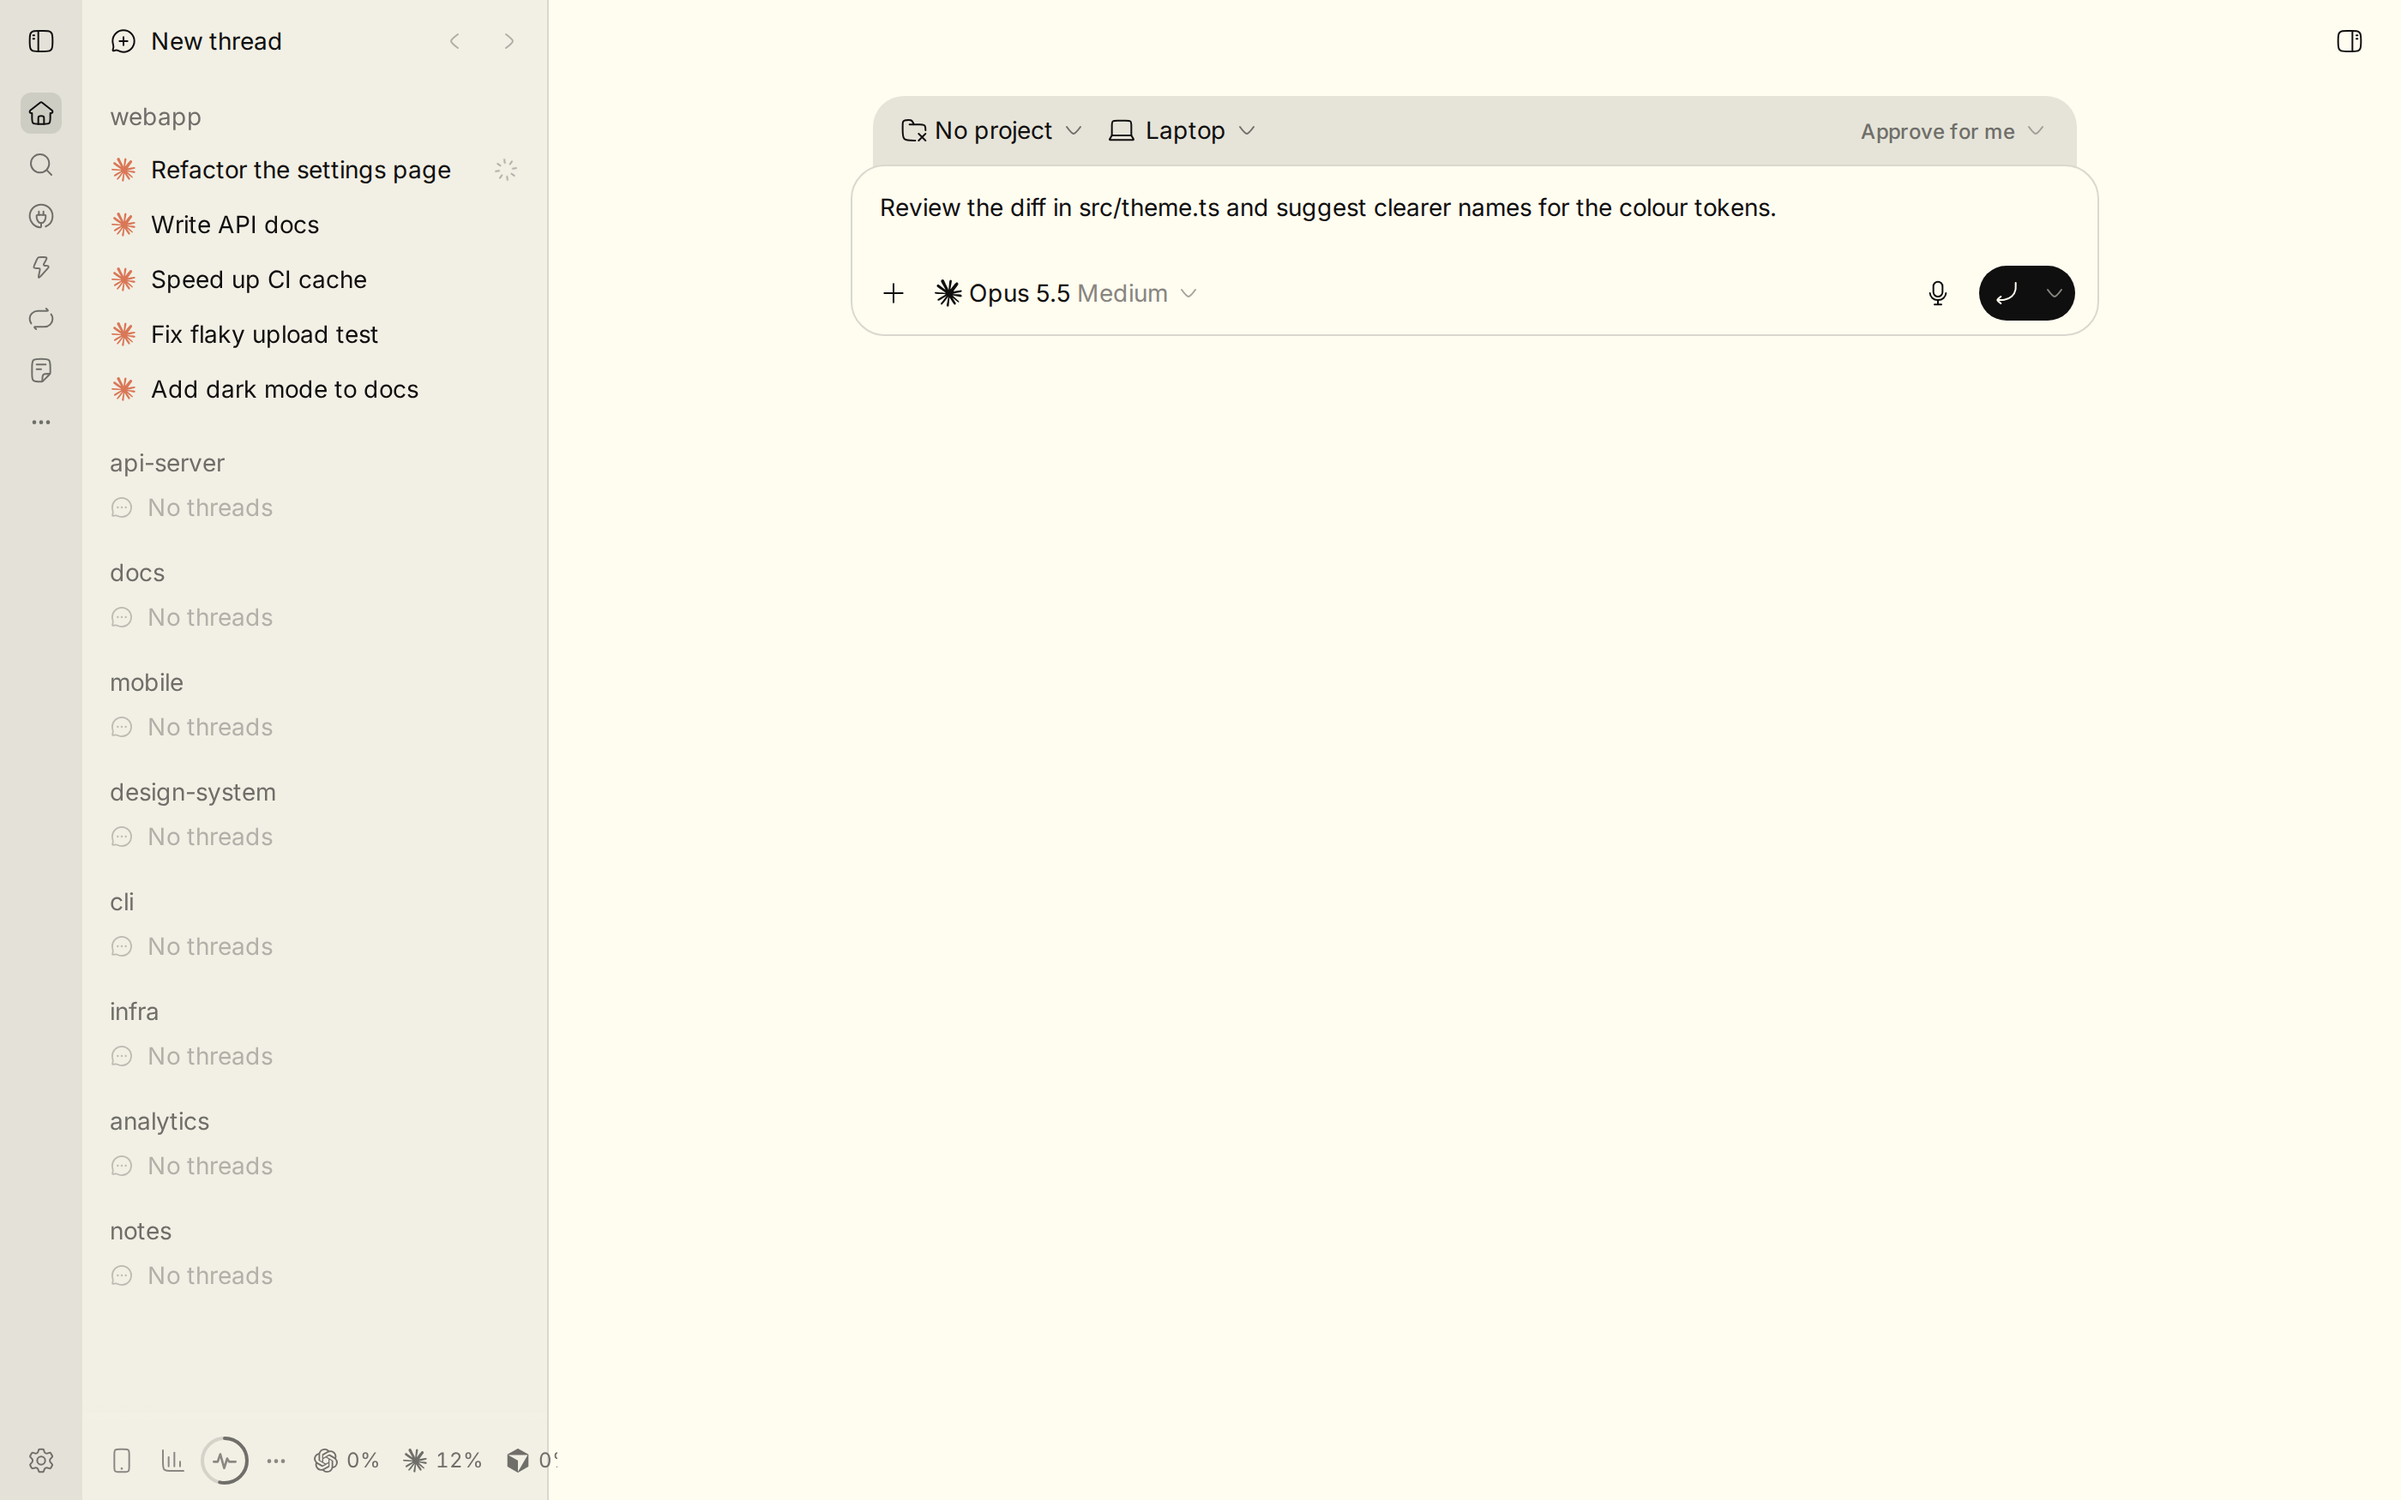
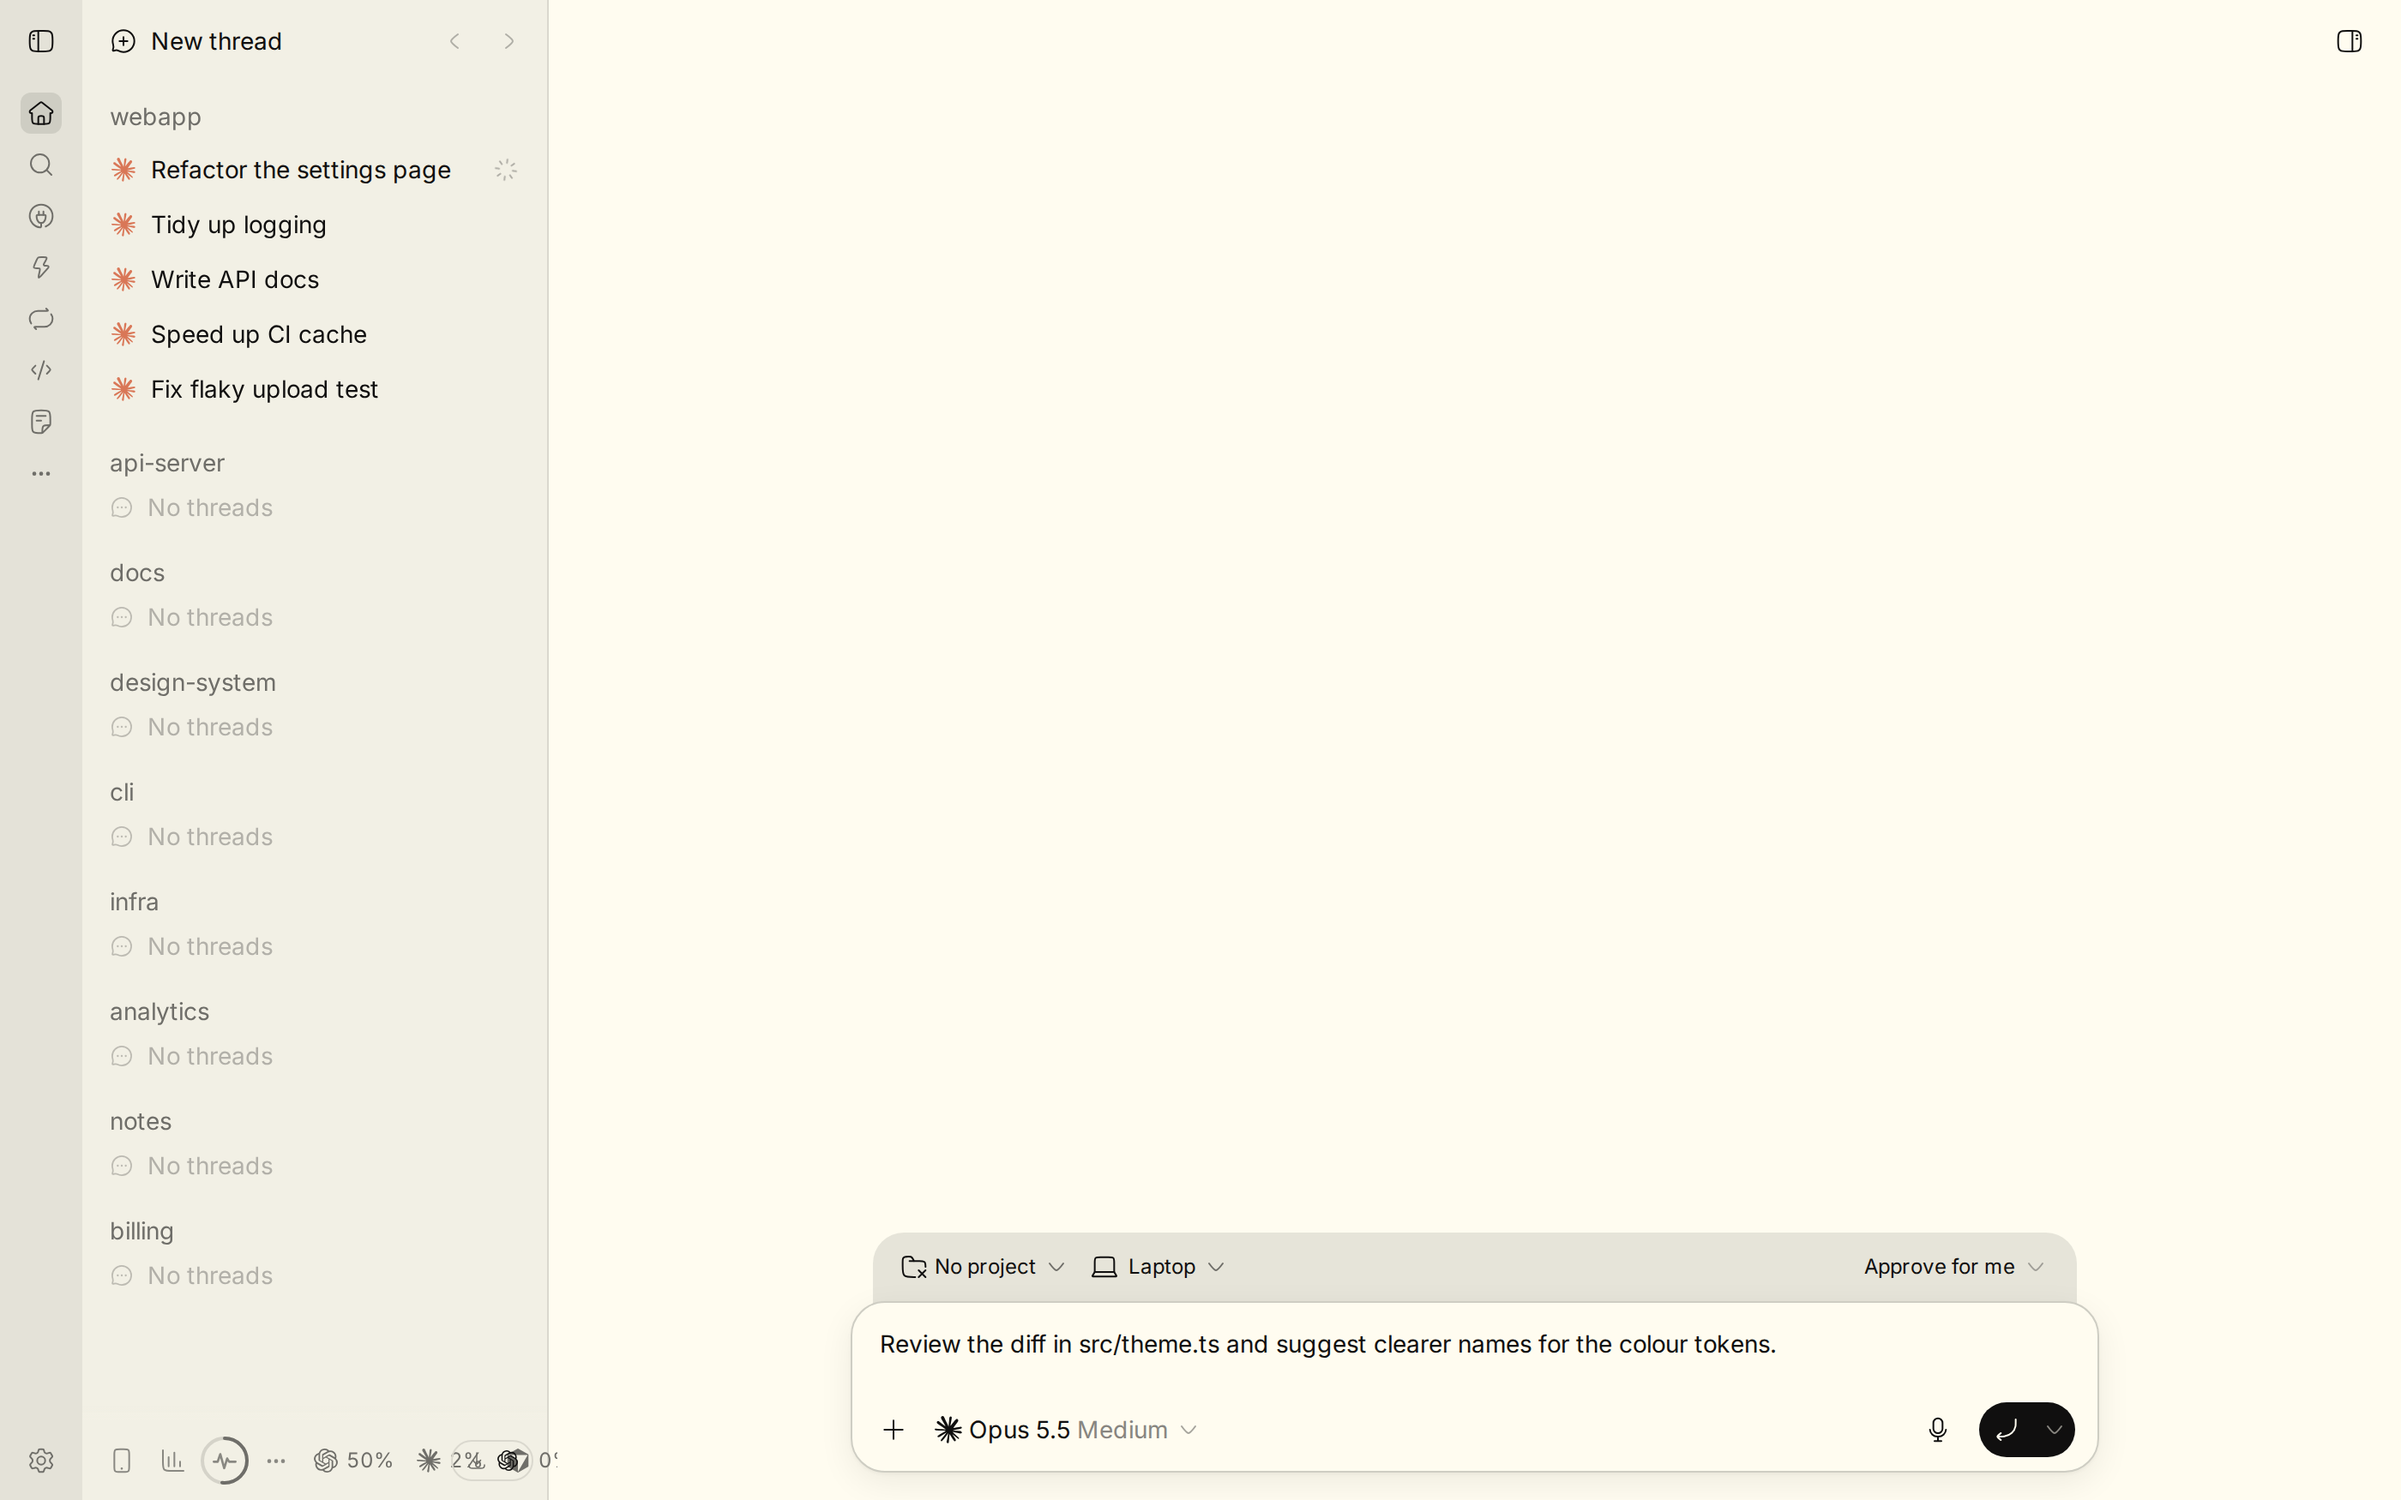
Release 0.1.4: new-thread composer at the bottom, firmer light slab (#6)
* Pin the new-thread composer to the bottom and firm up the light slab

Approve for me now matches the other strip controls.

* Set the context strip labels to 13px

* Set the context strip labels to 12px

* Release 0.1.4 with updated screenshots

---------

diff --git a/themes/flexoki.css b/themes/flexoki.css
@@ -225,15 +225,17 @@ form[class*="group/promptbox"] .ProseMirror { font-size: var(--composer); line-h
 :root,
 .light {
   --composer-surface: #FFFCF0;       /* paper */
-  --composer-outline: #DAD8CE;       /* ui-2 */
+  --composer-outline: #CECDC3;       /* ui-3: paper slab on paper canvas needs a firmer edge */
   --composer-strip: #E6E4D9;         /* ui */
   --composer-placeholder: #9F9D96;   /* 400 */
+  --composer-shadow: 0 1px 2px rgb(16 15 15 / 0.04), 0 6px 20px rgb(16 15 15 / 0.07);
 }
 .dark {
   --composer-surface: #282726;       /* ui */
   --composer-outline: #403E3C;       /* ui-3 */
   --composer-strip: #1C1B1A;         /* bg-2 */
   --composer-placeholder: #6F6E69;   /* 600 */
+  --composer-shadow: none;
 }
 
 /* Slab */
@@ -241,7 +243,7 @@ form[data-promptbox] {
   background-color: var(--composer-surface);
   border: 0.5px solid var(--composer-outline);
   border-radius: 1.25rem;
-  box-shadow: none;
+  box-shadow: var(--composer-shadow);
 }
 form[data-promptbox] .ProseMirror p.is-editor-empty:first-child::before {
   color: var(--composer-placeholder);
@@ -274,12 +276,17 @@ form[data-promptbox] .ProseMirror p.is-editor-empty:first-child::before {
 [data-promptbox-shell]:has(> [data-new-thread-footer]) > div:first-child {
   order: -2;                             /* scheduled-send cards stay above the strip */
 }
-[data-new-thread-footer] > div:first-child button,
-[data-new-thread-footer] > div:first-child button:hover {
+[data-new-thread-footer] button,
+[data-new-thread-footer] button:hover {
   color: var(--ink);
   font-weight: 400;
-  font-size: var(--text-sm);
-  line-height: var(--text-sm--line-height);
+  font-size: 0.75rem;                    /* 12px: quieter than the 14px prompt text */
+  line-height: 1.125rem;
+}
+/* New-thread page: the composer sits at the bottom, where it stays once the thread starts. */
+[data-testid="root-compose-compact-home"] {
+  min-height: 100%;
+  justify-content: flex-end;
 }
 @media (width <= 767px) {
   [data-promptbox-shell] > [data-new-thread-footer] {
